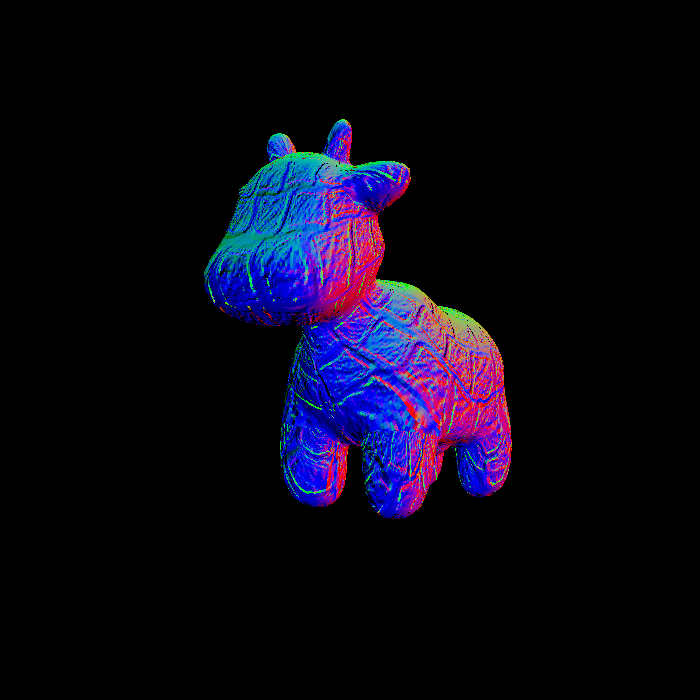
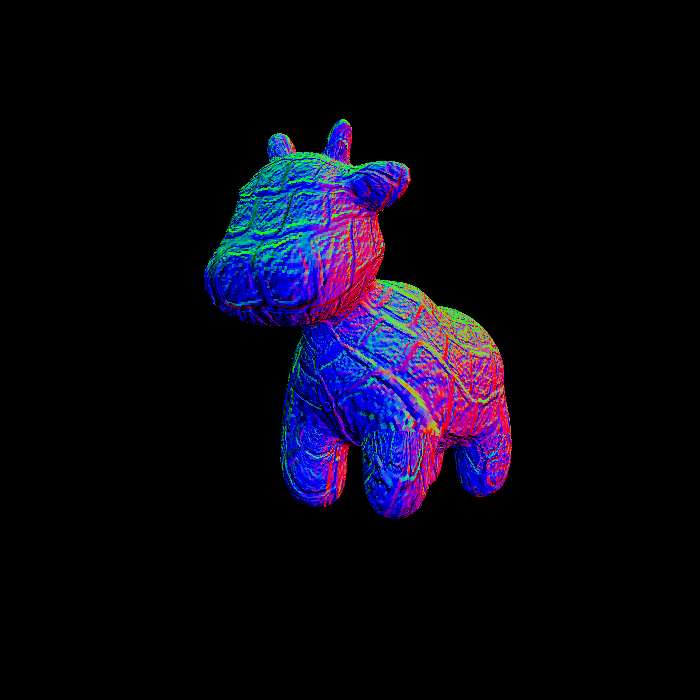
WIP

Changed region(s): [[0.27, 0.15, 0.75, 0.75]]

diff --git a/Homework3/Homework3/src/rasterizer.cpp b/Homework3/Homework3/src/rasterizer.cpp
@@ -5,7 +5,8 @@
 #include <algorithm>
 #include "rasterizer.hpp"
 #include <opencv2/opencv.hpp>
-#include <math.h>
+
+#include <eigen3/Eigen/Eigen>
 
 
 rst::pos_buf_id rst::rasterizer::load_positions(const std::vector<Eigen::Vector3f> &positions)
@@ -146,7 +147,7 @@ void rst::rasterizer::draw_line(Eigen::Vector3f begin, Eigen::Vector3f end)
 
 auto to_vec4(const Eigen::Vector3f& v3, float w = 1.0f)
 {
-    return Vector4f(v3.x(), v3.y(), v3.z(), w);
+    return Eigen::Vector4f(v3.x(), v3.y(), v3.z(), w);
 }
 
 static bool insideTriangle(int x, int y, const Vector4f* _v){
@@ -176,6 +177,24 @@ static std::tuple<float, float, float> computeBarycentric2D(float x, float y, co
     float c2 = (x*(v[2].y() - v[0].y()) + (v[0].x() - v[2].x())*y + v[2].x()*v[0].y() - v[0].x()*v[2].y()) / (v[1].x()*(v[2].y() - v[0].y()) + (v[0].x() - v[2].x())*v[1].y() + v[2].x()*v[0].y() - v[0].x()*v[2].y());
     float c3 = (x*(v[0].y() - v[1].y()) + (v[1].x() - v[0].x())*y + v[0].x()*v[1].y() - v[1].x()*v[0].y()) / (v[2].x()*(v[0].y() - v[1].y()) + (v[1].x() - v[0].x())*v[2].y() + v[0].x()*v[1].y() - v[1].x()*v[0].y());
     return {c1,c2,c3};
+}
+
+Eigen::Matrix3f CalTBN(Eigen::Vector3f p0,Eigen::Vector3f p1,Eigen::Vector3f p2,
+    Eigen::Vector2f uv0, Eigen::Vector2f uv1, Eigen::Vector2f uv2, Eigen::Vector3f p0Normal)
+{
+    Eigen::Vector3f E1 = p1 - p0;
+    Eigen::Vector3f E2 = p2 - p0;
+    float du1 = uv1.x() - uv0.x();
+    float du2 = uv2.x() - uv0.x();
+    float dv1 = uv1.y() - uv0.y();
+    float dv2 = uv2.y() - uv0.y();
+    Eigen::Vector3f T = (dv1 * E2 - dv2 * E1) / (dv1 * du2 - dv2 * du1);
+    Eigen::Vector3f N = p0Normal.normalized();
+    T = (T - T.dot(p0Normal)*N).normalized();
+    Eigen::Vector3f B = T.cross(N).normalized();
+    Eigen::Matrix3f TBN = Eigen::Matrix3f::Identity();
+    TBN << T, B, N;
+    return TBN;
 }
 
 void rst::rasterizer::draw(std::vector<Triangle *> &TriangleList) {
@@ -243,6 +262,14 @@ void rst::rasterizer::draw(std::vector<Triangle *> &TriangleList) {
         newtri.setColor(1, 148,121.0,92.0);
         newtri.setColor(2, 148,121.0,92.0);
 
+        // Calculate TBN Matrix for each vertex
+        Eigen::Matrix3f TBN0 = CalTBN(viewspace_pos[0], viewspace_pos[1], viewspace_pos[2],newtri.tex_coords[0],newtri.tex_coords[1], newtri.tex_coords[2], newtri.normal[0]);
+        Eigen::Matrix3f TBN1 = CalTBN(viewspace_pos[1], viewspace_pos[2], viewspace_pos[0],newtri.tex_coords[1],newtri.tex_coords[2], newtri.tex_coords[0], newtri.normal[1]);
+        Eigen::Matrix3f TBN2 = CalTBN(viewspace_pos[2], viewspace_pos[0], viewspace_pos[1],newtri.tex_coords[2],newtri.tex_coords[0], newtri.tex_coords[1], newtri.normal[2]);
+        newtri.setTBN(0,TBN0);
+        newtri.setTBN(1,TBN1);
+        newtri.setTBN(2,TBN2);
+
         // Also pass view space vertice position
         rasterize_triangle(newtri, viewspace_pos);
     }
@@ -263,6 +290,7 @@ static Eigen::Vector2f interpolate(float alpha, float beta, float gamma, const E
 
     return Eigen::Vector2f(u, v);
 }
+
 
 //Screen space rasterization
 void rst::rasterizer::rasterize_triangle(const Triangle& t, const std::array<Eigen::Vector3f, 3>& view_pos) 
@@ -307,7 +335,7 @@ void rst::rasterizer::rasterize_triangle(const Triangle& t, const std::array<Eig
             if (insideTriangle(x,y,v.data()))
             {
                 auto[alpha, beta, gamma] = computeBarycentric2D(x+0.5f, y+0.5f, v.data());
-                float Z = 1.0 / (alpha / view_pos[0].z() + beta / view_pos[1].z() + gamma / view_pos[2].z());
+                float Z = 1.0f / (alpha / view_pos[0].z() + beta / view_pos[1].z() + gamma / view_pos[2].z());
                 int buf_idx = get_index(x,y);
                 if (Z > depth_buf[buf_idx])
                 {
@@ -315,7 +343,8 @@ void rst::rasterizer::rasterize_triangle(const Triangle& t, const std::array<Eig
                     auto interpolated_normal = Z * (alpha / view_pos[0].z() * t.normal[0] + beta / view_pos[1].z() * t.normal[1] + gamma / view_pos[2].z() * t.normal[2]);
                     auto interpolated_texcoords = Z * (alpha / view_pos[0].z() * t.tex_coords[0] + beta / view_pos[1].z() * t.tex_coords[1] + gamma / view_pos[2].z() * t.tex_coords[2]);
                     auto interpolated_shadingcoords = Z * (alpha / view_pos[0].z() * view_pos[0] + beta / view_pos[1].z() * view_pos[1] + gamma / view_pos[2].z() * view_pos[2]);
-                    fragment_shader_payload payload( interpolated_color, interpolated_normal.normalized(), interpolated_texcoords, texture ? &*texture : nullptr);
+                    auto interpolated_TBN= Z * (alpha / view_pos[0].z() * t.TBN[0] + beta / view_pos[1].z() * t.TBN[1] + gamma / view_pos[2].z() * t.TBN[2]);
+                    fragment_shader_payload payload( interpolated_color, interpolated_normal.normalized(), interpolated_texcoords, texture ? &*texture : nullptr, interpolated_TBN);
                     payload.view_pos = interpolated_shadingcoords;
                     auto pixel_color = fragment_shader(payload);
                     set_pixel(Vector2i(x, y), pixel_color);

diff --git a/Homework3/Homework3/src/main.cpp b/Homework3/Homework3/src/main.cpp
@@ -268,13 +268,16 @@ Eigen::Vector3f bump_fragment_shader(const fragment_shader_payload& payload)
     // Vector ln = (-dU, -dV, 1)
     // Normal n = normalize(TBN * ln)
     Eigen::Vector3f n = normal;
-    float x = normal.x();
-    float y = normal.y();
-    float z = normal.z();
-    Eigen::Vector3f t = {x*y/sqrt(x*x+z*z),sqrt(x*x+z*z),z*y/sqrt(x*x+z*z)};
-    Eigen::Vector3f b = n.cross(t);
     Eigen::Matrix3f TBN;
-    TBN<< t,b,n;
+    
+    // float x = normal.x();
+    // float y = normal.y();
+    // float z = normal.z();
+    // Eigen::Vector3f t = {x*y/sqrt(x*x+z*z),sqrt(x*x+z*z),z*y/sqrt(x*x+z*z)};
+    // Eigen::Vector3f b = n.cross(t);
+    // TBN<< t,b,n;
+    
+    TBN = payload.TBN;
     float dU = kh * kn * (payload.texture->getColor(payload.tex_coords.x()+ 1.f/payload.texture->width,payload.tex_coords.y()).norm() -payload.texture->getColor(payload.tex_coords.x(),payload.tex_coords.y()).norm());
     float dV = kh * kn * (payload.texture->getColor(payload.tex_coords.x(),payload.tex_coords.y() + + 1.f/payload.texture->height).norm() -payload.texture->getColor(payload.tex_coords.x(),payload.tex_coords.y()).norm());
     Eigen::Vector3f ln = {-dU, -dV, 1.f};

diff --git a/Homework3/Homework3/src/Shader.hpp b/Homework3/Homework3/src/Shader.hpp
@@ -15,8 +15,8 @@ struct fragment_shader_payload
         texture = nullptr;
     }
 
-    fragment_shader_payload(const Eigen::Vector3f& col, const Eigen::Vector3f& nor,const Eigen::Vector2f& tc, Texture* tex) :
-         color(col), normal(nor), tex_coords(tc), texture(tex) {}
+    fragment_shader_payload(const Eigen::Vector3f& col, const Eigen::Vector3f& nor,const Eigen::Vector2f& tc, Texture* tex, Eigen::Matrix3f tbn) :
+         color(col), normal(nor), tex_coords(tc), texture(tex), TBN(tbn) {}
 
 
     Eigen::Vector3f view_pos;
@@ -24,6 +24,7 @@ struct fragment_shader_payload
     Eigen::Vector3f normal;
     Eigen::Vector2f tex_coords;
     Texture* texture;
+    Eigen::Matrix3f TBN;
 };
 
 struct vertex_shader_payload

diff --git a/Homework3/Homework3/src/Triangle.hpp b/Homework3/Homework3/src/Triangle.hpp
@@ -17,7 +17,7 @@ public:
     Vector3f color[3]; //color at each vertex;
     Vector2f tex_coords[3]; //texture u,v
     Vector3f normal[3]; //normal vector for each vertex
-
+    Matrix3f TBN[3]; //TBN Matrix for each vertex
     Texture *tex= nullptr;
     Triangle();
 
@@ -32,6 +32,7 @@ public:
     void setNormals(const std::array<Vector3f, 3>& normals);
     void setColors(const std::array<Vector3f, 3>& colors);
     void setTexCoord(int ind,Vector2f uv ); /*set i-th vertex texture coordinate*/
+    void setTBN(int ind,Matrix3f tbn ); /*set i-th vertex texture coordinate*/
     std::array<Vector4f, 3> toVector4() const;
 };
 

diff --git a/Homework3/Homework3/src/rasterizer.hpp b/Homework3/Homework3/src/rasterizer.hpp
@@ -86,7 +86,7 @@ namespace rst
     private:
         void draw_line(Eigen::Vector3f begin, Eigen::Vector3f end);
 
-        void rasterize_triangle(const Triangle& t, const std::array<Eigen::Vector3f, 3>& world_pos);
+        void rasterize_triangle(const Triangle& t, const std::array<Eigen::Vector3f, 3>& view_pos);
 
         // VERTEX SHADER -> MVP -> Clipping -> /.W -> VIEWPORT -> DRAWLINE/DRAWTRI -> FRAGSHADER
 

diff --git a/Homework3/Homework3/src/Triangle.cpp b/Homework3/Homework3/src/Triangle.cpp
@@ -43,6 +43,12 @@ void Triangle::setColor(int ind, float r, float g, float b) {
 void Triangle::setTexCoord(int ind, Vector2f uv) {
     tex_coords[ind] = uv;
 }
+
+void Triangle::setTBN(int ind, Matrix3f tbn)
+{
+    TBN[ind] = tbn;
+}
+
 std::array<Vector4f, 3> Triangle::toVector4() const
 {
     std::array<Eigen::Vector4f, 3> res;
